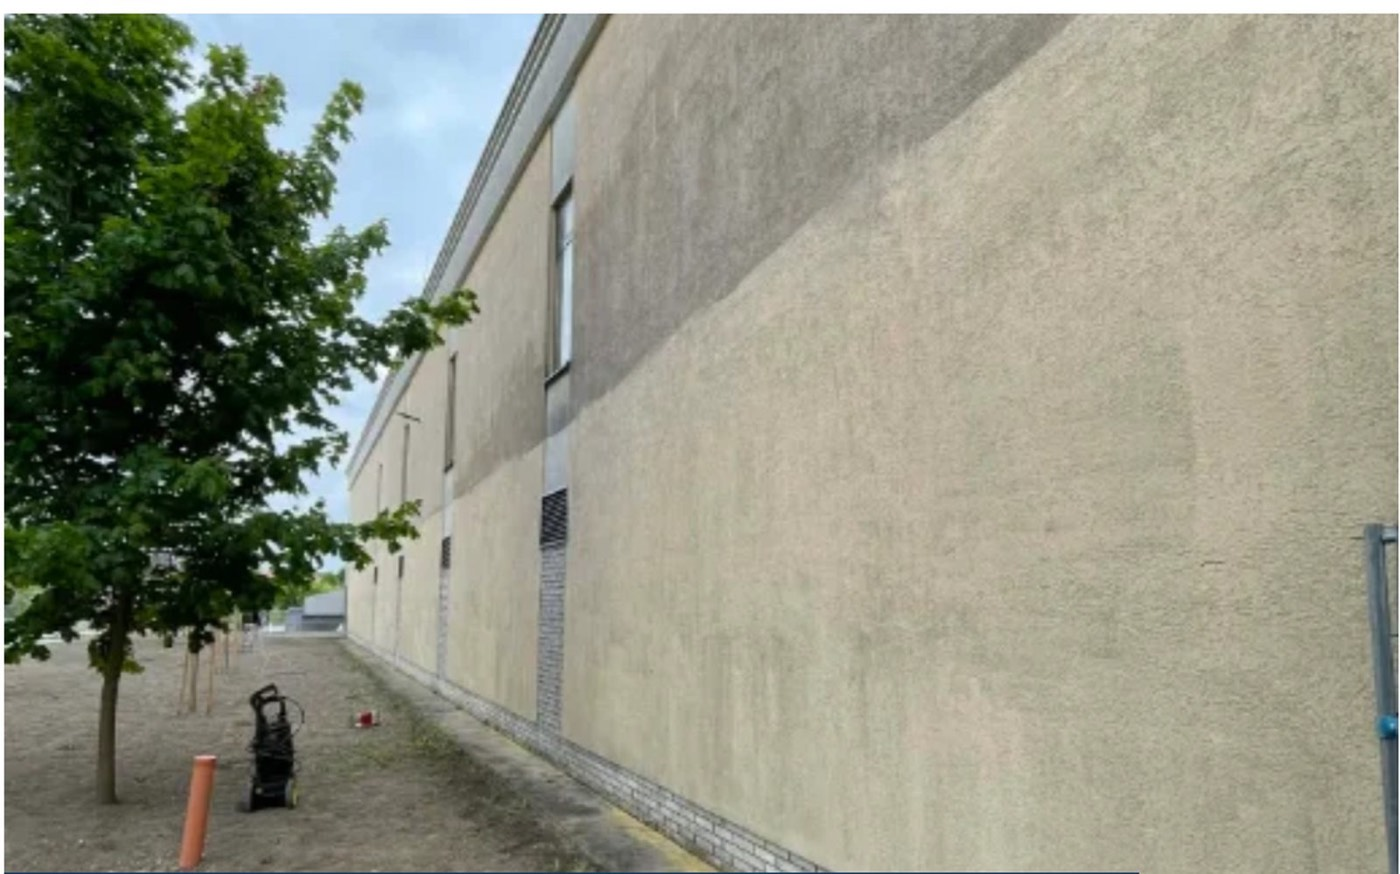
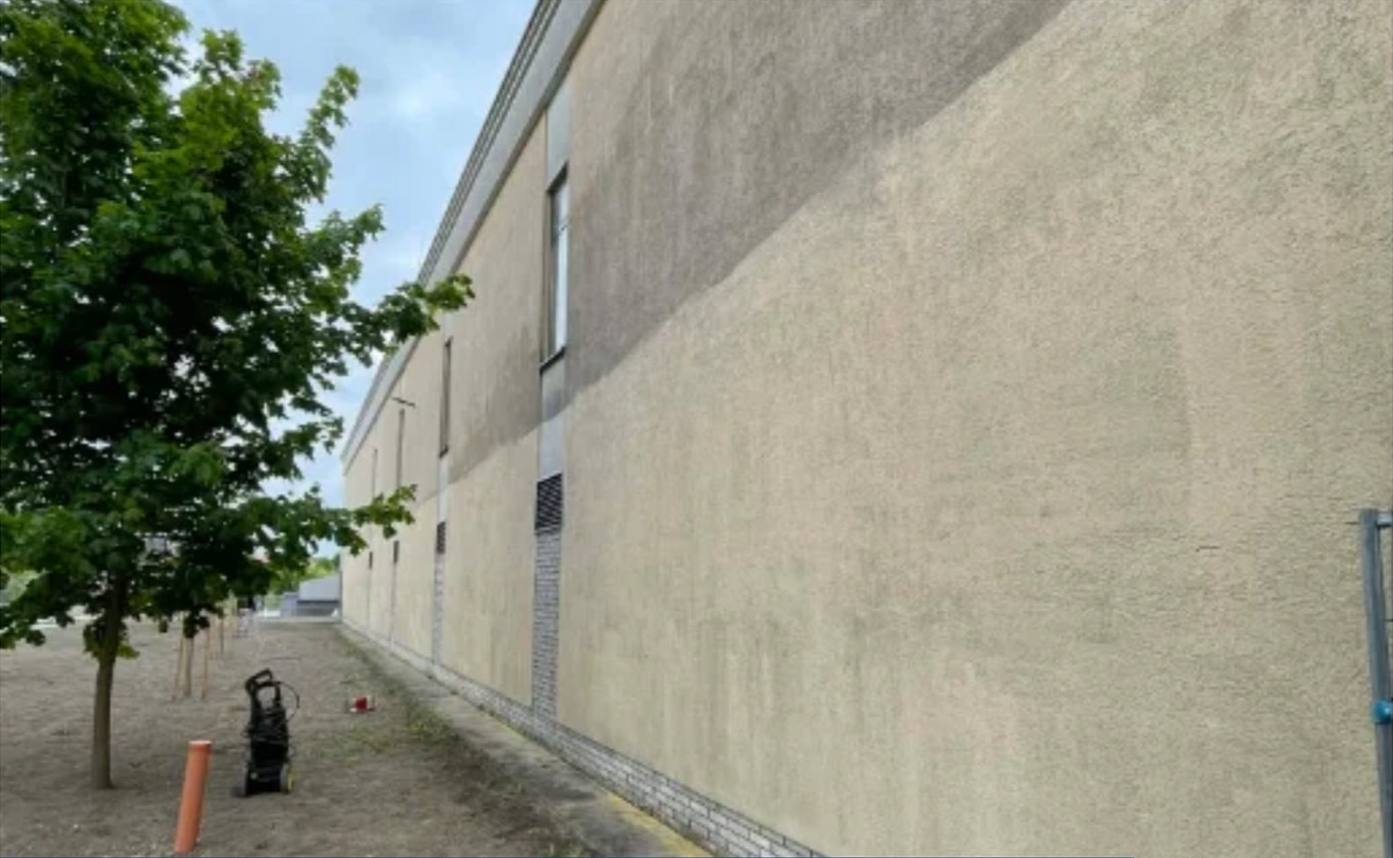
Centre the CTAs, rework the /auto hero, crop the white frame off two photos
The CTA buttons now sit centred rather than left aligned. On mobile they were
already full width, so this only changes the desktop view; the line under them
follows, and its tick is inline with the text instead of floating at the left
edge when the line wraps to two.

/auto leads with "Teljeskörű mobil autókozmetika Mosonmagyaróváron." and the
box under the CTA with "Hogy hogyan is zajlik?". Dropped "vagy behozza
hozzánk": the offer is now stated as mobile only, so the box says we come to
them and nothing about bringing the car in or giving it back.

/tisztitas asks "Mire is vonatkozik az ingyenes próbamosás?".

img/homlokzat.jpg and img/terko.jpg carried a 14px white band along the top and
4px down the left, baked in by whatever crop they came from. Cropped off. The
other four photos were clean.

Claude-Session: https://claude.ai/code/session_01Xa6Q5zRWGeK6sDfGFcVRLa

diff --git a/assets/lp.css b/assets/lp.css
@@ -146,7 +146,8 @@ h1 em { font-style: normal; color: var(--accent-soft); }
 
 .cta {
   display: flex; align-items: center; justify-content: center; gap: 10px;
-  width: 100%; margin-top: 22px;
+  /* Az auto oldalmargó tartja középen ott, ahol a gomb nem teljes szélességű. */
+  width: 100%; margin: 22px auto 0;
   font-family: inherit; font-size: 17px; font-weight: 700; letter-spacing: -.01em;
   color: #fff; text-decoration: none; cursor: pointer;
   border: 0; border-radius: 13px; padding: 17px 22px;
@@ -168,10 +169,13 @@ h1 em { font-style: normal; color: var(--accent-soft); }
 @media (prefers-reduced-motion: reduce) { .cta { animation: none; } html { scroll-behavior: auto; } }
 
 .under-cta {
-  display: flex; align-items: center; justify-content: center; gap: 8px;
-  margin-top: 12px; font-size: 13.5px; color: var(--muted); text-align: center;
+  margin-top: 12px; font-size: 13.5px; color: var(--muted);
+  text-align: center; text-wrap: balance;
 }
-.under-cta svg { width: 15px; height: 15px; color: var(--free); flex: none; }
+.under-cta svg {
+  width: 15px; height: 15px; color: var(--free);
+  display: inline-block; vertical-align: -2px; margin-right: 6px;
+}
 
 /* ── ajánlat magyarázó doboz ──────────────────────────────────────────────── */
 
@@ -271,7 +275,7 @@ footer .legal { margin-top: 12px; font-size: 12px; opacity: .75; }
   padding: 11px var(--pad) calc(11px + env(safe-area-inset-bottom));
   display: flex; justify-content: center;
 }
-.stick .cta { max-width: 580px; margin-top: 0; padding: 15px 22px; font-size: 16px; }
+.stick .cta { max-width: 580px; margin: 0 auto; padding: 15px 22px; font-size: 16px; }
 
 /* ── űrlap ────────────────────────────────────────────────────────────────── */
 
@@ -369,7 +373,6 @@ form { margin-top: 20px; display: grid; gap: 15px; }
   .hero { padding-top: 46px; }
   .shot img { aspect-ratio: 16 / 9; }
   .cta { width: auto; min-width: 300px; }
-  .under-cta { justify-content: flex-start; }
   .band { grid-template-columns: repeat(3, 1fr); }
   .band div { justify-content: center; padding: 16px 10px; }
   .card { flex-basis: 300px; }

diff --git a/auto/index.html b/auto/index.html
@@ -8,7 +8,7 @@
 <meta name="robots" content="noindex, follow">
 <meta name="theme-color" content="#080d18">
 <meta property="og:type" content="website">
-<meta property="og:title" content="Az autó belseje úgy, ahogy új korában volt">
+<meta property="og:title" content="Teljeskörű mobil autókozmetika Mosonmagyaróváron">
 <meta property="og:description" content="Teljes belső takarítás, szövet és bőr külön eljárással, egy nap alatt. Háznál is.">
 <meta property="og:image" content="/img/auto.jpg">
 <link rel="preload" href="/assets/fonts/poppins-800-latin-ext.woff2" as="font" type="font/woff2" crossorigin>
@@ -34,7 +34,7 @@
     <div class="wrap">
       <span class="badge alt"><span class="dot"></span> Háznál is, az autót nem kell behoznia</span>
 
-      <h1>Az autó belseje úgy, <em>ahogy új korában volt.</em></h1>
+      <h1>Teljeskörű mobil autókozmetika <em>Mosonmagyaróváron.</em></h1>
 
       <p class="lede">
         Teljes belső takarítás: kárpit, szőnyeg, tetőkárpit, műanyagok és üveg.
@@ -58,9 +58,10 @@
       </p>
 
       <p class="note alt">
-        <b>Ahogy zajlik.</b> Megmondja, milyen autó és mit szeretne, mi árat és időpontot
-        adunk. Kimegyünk Önhöz, vagy behozza hozzánk. A szövet mélytisztítás után néhány
-        órát szárad, ezért <b>a kész autót ugyanazon a napon adjuk vissza</b>.
+        <b>Hogy hogyan is zajlik?</b> Megmondja, milyen autó és mit szeretne, mi árat és
+        időpontot adunk. <b>Kimegyünk Önhöz</b>, az autót nem kell sehová vinnie. A szövet
+        mélytisztítás után néhány órát szárad, ezért az időpontot úgy adjuk, hogy aznap
+        végezzünk.
       </p>
     </div>
   </section>

diff --git a/tisztitas/index.html b/tisztitas/index.html
@@ -58,7 +58,7 @@
       </p>
 
       <p class="note">
-        <b>Mire vonatkozik az ingyenes próba.</b> Homlokzatra, tűzfalra és térkőre,
+        <b>Mire is vonatkozik az ingyenes próbamosás?</b> Homlokzatra, tűzfalra és térkőre,
         ingatlanonként egy szakaszra. A <b>lakás- és háztakarításra nem jár próbatisztítás</b>,
         arra felmérés után adunk árajánlatot.
       </p>
